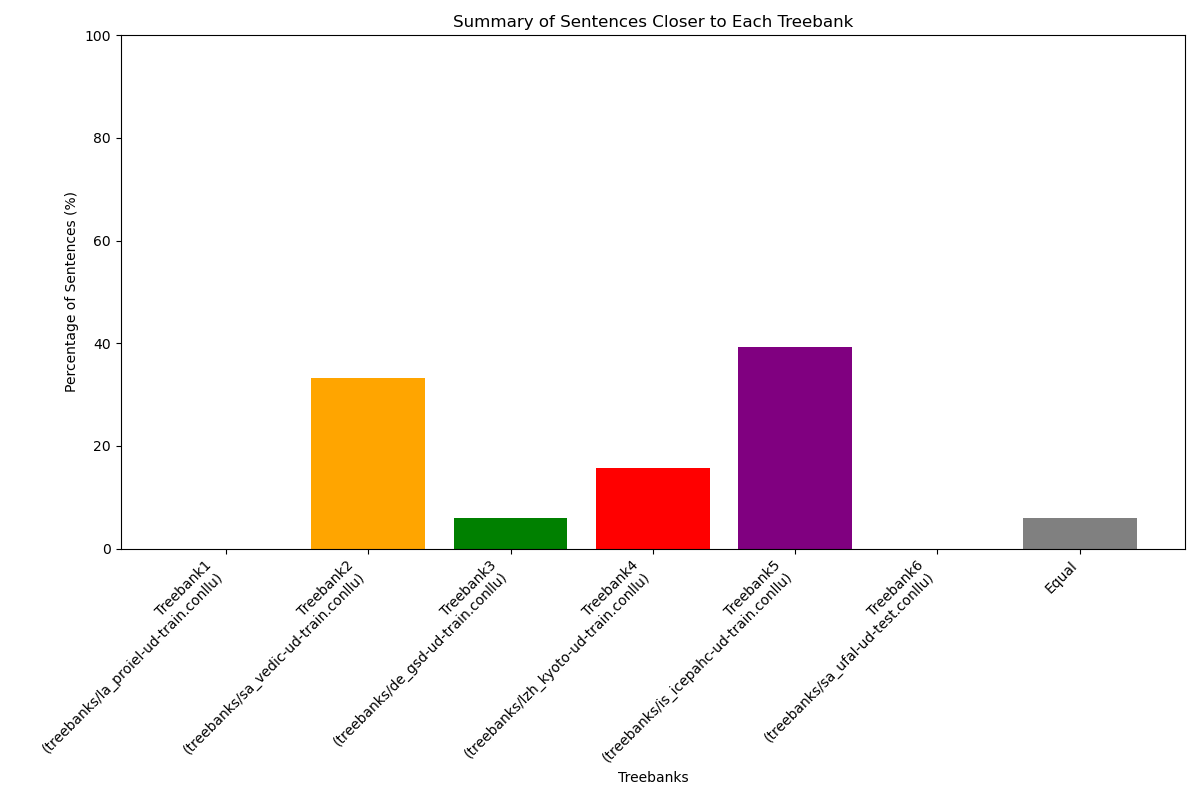
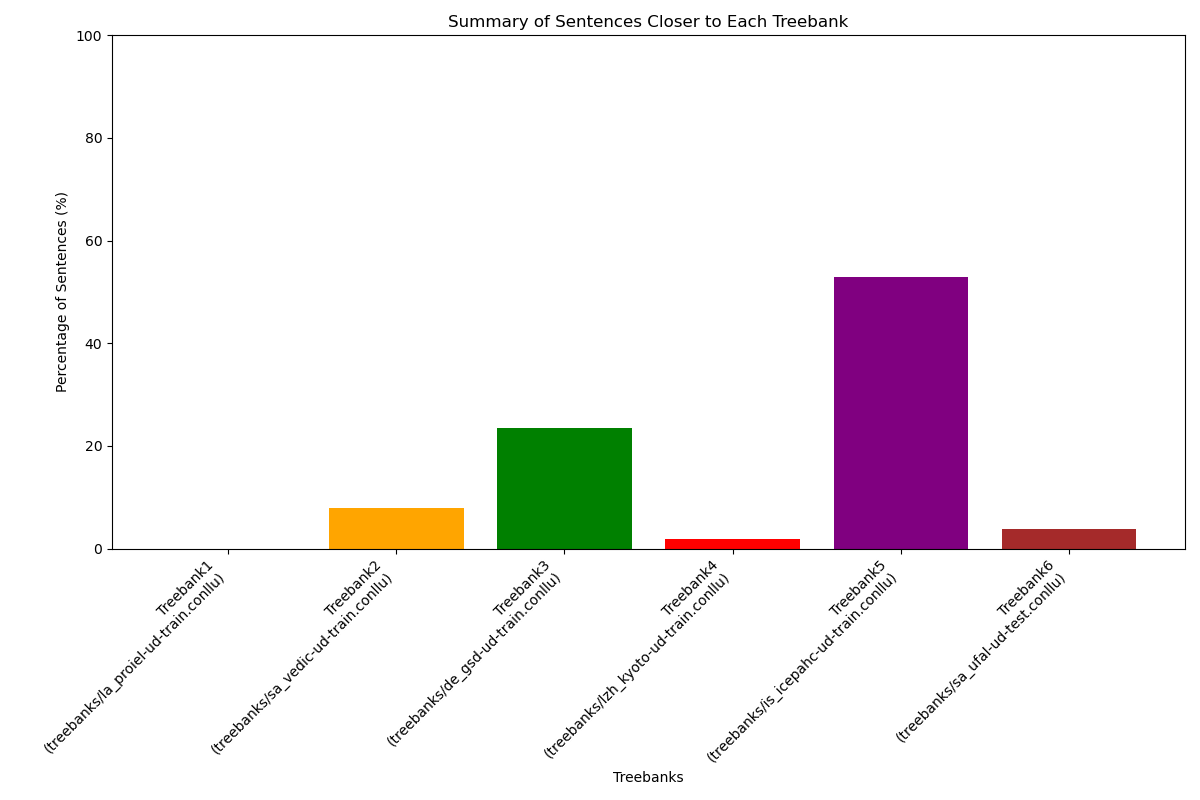
Fixed deviation calculation

diff --git a/compare_tree_edit_distance.py b/compare_tree_edit_distance.py
@@ -4,6 +4,7 @@ import argparse
 from collections import defaultdict
 from typing import List, Dict, Tuple, Set, Any, Optional
 import matplotlib.pyplot as plt
+import random
 
 
 class DependencyNode:
@@ -137,8 +138,14 @@ def tree_edit_distance(tree1: List[DependencyNode], tree2: List[DependencyNode])
     if max_size == 0:
         return 0.0
     
-    return total_distance / max_size
+    # Explicit normalization
+    normalized_distance = total_distance / max_size
+    
+    return normalized_distance
 
+
+def safe_average(distances):
+    return np.mean(distances) if distances else 1.0  # Using max normalized distance (1.0) as fallback
 
 def compute_average_distances(input_sentences: List[List[DependencyNode]], 
                              treebank1: List[List[DependencyNode]], 
@@ -153,31 +160,58 @@ def compute_average_distances(input_sentences: List[List[DependencyNode]],
     Returns a dictionary mapping sentence indices to tuples of (avg_distance_to_treebank1, avg_distance_to_treebank2, avg_distance_to_treebank3, avg_distance_to_treebank4, avg_distance_to_treebank5, avg_distance_to_treebank6)
     """
     results = {}
-    
+    max_samples = 1000  # Maximum number of samples to use for averaging
+
     for i, sentence in enumerate(input_sentences):
-        # Compute distances to treebank1
-        distances1 = [tree_edit_distance(sentence, ref_sentence) for ref_sentence in treebank1]
-        avg_distance1 = np.mean(distances1) if distances1 else float('inf')
+        sentence_length = len(sentence)
+        min_length = int(sentence_length * 0.8)
+        max_length = int(sentence_length * 1.2)
         
-        # Compute distances to treebank2
-        distances2 = [tree_edit_distance(sentence, ref_sentence) for ref_sentence in treebank2]
-        avg_distance2 = np.mean(distances2) if distances2 else float('inf')
+        # Filter and sample treebank sentences by length
+        filtered_treebank1 = [s for s in treebank1 if min_length <= len(s) <= max_length]
+        filtered_treebank2 = [s for s in treebank2 if min_length <= len(s) <= max_length]
+        filtered_treebank3 = [s for s in treebank3 if min_length <= len(s) <= max_length]
+        filtered_treebank4 = [s for s in treebank4 if min_length <= len(s) <= max_length]
+        filtered_treebank5 = [s for s in treebank5 if min_length <= len(s) <= max_length]
+        filtered_treebank6 = [s for s in treebank6 if min_length <= len(s) <= max_length]
+        # print length of filtered treebanks
+        print(f"Length of filtered treebank1: {len(filtered_treebank1)}")
+        print(f"Length of filtered treebank2: {len(filtered_treebank2)}")
+        print(f"Length of filtered treebank3: {len(filtered_treebank3)}")
+        print(f"Length of filtered treebank4: {len(filtered_treebank4)}")
+        print(f"Length of filtered treebank5: {len(filtered_treebank5)}")
+        print(f"Length of filtered treebank6: {len(filtered_treebank6)}")
+        # Sample from the filtered lists
+        sampled_treebank1 = random.sample(filtered_treebank1, min(max_samples, len(filtered_treebank1))) if filtered_treebank1 else []
+        sampled_treebank2 = random.sample(filtered_treebank2, min(max_samples, len(filtered_treebank2))) if filtered_treebank2 else []
+        sampled_treebank3 = random.sample(filtered_treebank3, min(max_samples, len(filtered_treebank3))) if filtered_treebank3 else []
+        sampled_treebank4 = random.sample(filtered_treebank4, min(max_samples, len(filtered_treebank4))) if filtered_treebank4 else []
+        sampled_treebank5 = random.sample(filtered_treebank5, min(max_samples, len(filtered_treebank5))) if filtered_treebank5 else []
+        sampled_treebank6 = random.sample(filtered_treebank6, min(max_samples, len(filtered_treebank6))) if filtered_treebank6 else []
         
-        # Compute distances to treebank3
-        distances3 = [tree_edit_distance(sentence, ref_sentence) for ref_sentence in treebank3]
-        avg_distance3 = np.mean(distances3) if distances3 else float('inf')
+        # Compute distances to sampled treebank1
+        distances1 = [tree_edit_distance(sentence, ref_sentence) for ref_sentence in sampled_treebank1]
+        avg_distance1 = safe_average(distances1)
         
-        # Compute distances to treebank4
-        distances4 = [tree_edit_distance(sentence, ref_sentence) for ref_sentence in treebank4]
-        avg_distance4 = np.mean(distances4) if distances4 else float('inf')
+        # Compute distances to sampled treebank2
+        distances2 = [tree_edit_distance(sentence, ref_sentence) for ref_sentence in sampled_treebank2]
+        avg_distance2 = safe_average(distances2)
         
-        # Compute distances to treebank5
-        distances5 = [tree_edit_distance(sentence, ref_sentence) for ref_sentence in treebank5]
-        avg_distance5 = np.mean(distances5) if distances5 else float('inf')
+        # Compute distances to sampled treebank3
+        distances3 = [tree_edit_distance(sentence, ref_sentence) for ref_sentence in sampled_treebank3]
+        avg_distance3 = safe_average(distances3)
         
-        # Compute distances to treebank6
-        distances6 = [tree_edit_distance(sentence, ref_sentence) for ref_sentence in treebank6]
-        avg_distance6 = np.mean(distances6) if distances6 else float('inf')
+        # Compute distances to sampled treebank4
+        distances4 = [tree_edit_distance(sentence, ref_sentence) for ref_sentence in sampled_treebank4]
+        avg_distance4 = safe_average(distances4)
+        
+        # Compute distances to sampled treebank5
+        distances5 = [tree_edit_distance(sentence, ref_sentence) for ref_sentence in sampled_treebank5]
+        avg_distance5 = safe_average(distances5)
+        
+        # Compute distances to sampled treebank6
+        distances6 = [tree_edit_distance(sentence, ref_sentence) for ref_sentence in sampled_treebank6]
+        avg_distance6 = safe_average(distances6)
         
         results[i] = (avg_distance1, avg_distance2, avg_distance3, avg_distance4, avg_distance5, avg_distance6)
         
@@ -192,6 +226,7 @@ def main():
     
     # Hardcode the file paths
     input_file = 'data/yd-parsed.txt'
+    #input_file = 'data/vedic.txt'
     treebank1_file = 'treebanks/la_proiel-ud-train.conllu'
     treebank2_file = 'treebanks/sa_vedic-ud-train.conllu'
     treebank3_file = 'treebanks/de_gsd-ud-train.conllu'
@@ -243,60 +278,65 @@ def main():
     print(f"Parsed {len(treebank5)} sentences from treebank 5 after pruning")
     print(f"Parsed {len(treebank6)} sentences from treebank 6 after pruning")
     
-    # Compute the average distances
+    # Compute the average distances and total distances
     results = compute_average_distances(input_sentences, treebank1, treebank2, treebank3, treebank4, treebank5, treebank6)
     
+    # Initialize total distances
+    total_distances = [0.0] * 6
+    
+    # Initialize counters for sentences closer to each treebank
+    tb1_closer = tb2_closer = tb3_closer = tb4_closer = tb5_closer = tb6_closer = equal = 0
+
     # Write the results to the output file
     with open(args.output, 'w', encoding='utf-8') as f:
-        f.write("Sentence_ID\tAvg_Distance_Treebank1\tAvg_Distance_Treebank2\tAvg_Distance_Treebank3\tAvg_Distance_Treebank4\tAvg_Distance_Treebank5\tAvg_Distance_Treebank6\tCloser_To\tTreebank_File\n")
+        f.write("Sentence_ID\tAvg_Distance_Treebank1\tAvg_Distance_Treebank2\tAvg_Distance_Treebank3\tAvg_Distance_Treebank4\tAvg_Distance_Treebank5\tAvg_Distance_Treebank6\n")
         
         for sentence_id, (dist1, dist2, dist3, dist4, dist5, dist6) in sorted(results.items()):
-            if dist1 < dist2 and dist1 < dist3 and dist1 < dist4 and dist1 < dist5 and dist1 < dist6:
-                closer_to = "Treebank1"
-                treebank_file = treebank1_file
-            elif dist2 < dist1 and dist2 < dist3 and dist2 < dist4 and dist2 < dist5 and dist2 < dist6:
-                closer_to = "Treebank2"
-                treebank_file = treebank2_file
-            elif dist3 < dist1 and dist3 < dist2 and dist3 < dist4 and dist3 < dist5 and dist3 < dist6:
-                closer_to = "Treebank3"
-                treebank_file = treebank3_file
-            elif dist4 < dist1 and dist4 < dist2 and dist4 < dist3 and dist4 < dist5 and dist4 < dist6:
-                closer_to = "Treebank4"
-                treebank_file = treebank4_file
-            elif dist5 < dist1 and dist5 < dist2 and dist5 < dist3 and dist5 < dist4 and dist5 < dist6:
-                closer_to = "Treebank5"
-                treebank_file = treebank5_file
-            elif dist6 < dist1 and dist6 < dist2 and dist6 < dist3 and dist6 < dist4 and dist6 < dist5:
-                closer_to = "Treebank6"
-                treebank_file = treebank6_file
+            total_distances[0] += dist1
+            total_distances[1] += dist2
+            total_distances[2] += dist3
+            total_distances[3] += dist4
+            total_distances[4] += dist5
+            total_distances[5] += dist6
+            
+            # Determine which treebank the sentence is closest to
+            distances = [dist1, dist2, dist3, dist4, dist5, dist6]
+            min_distance = min(distances)
+            if distances.count(min_distance) > 1:
+                equal += 1
             else:
-                closer_to = "Equal"
-                treebank_file = "Multiple"
-                
-            f.write(f"{sentence_id+1}\t{dist1:.4f}\t{dist2:.4f}\t{dist3:.4f}\t{dist4:.4f}\t{dist5:.4f}\t{dist6:.4f}\t{closer_to}\t{treebank_file}\n")
+                closest_index = distances.index(min_distance)
+                if closest_index == 0:
+                    tb1_closer += 1
+                elif closest_index == 1:
+                    tb2_closer += 1
+                elif closest_index == 2:
+                    tb3_closer += 1
+                elif closest_index == 3:
+                    tb4_closer += 1
+                elif closest_index == 4:
+                    tb5_closer += 1
+                elif closest_index == 5:
+                    tb6_closer += 1
+            
+            f.write(f"{sentence_id+1}\t{dist1:.4f}\t{dist2:.4f}\t{dist3:.4f}\t{dist4:.4f}\t{dist5:.4f}\t{dist6:.4f}\n")
     
     print(f"Results written to {args.output}")
     
-    # Print summary statistics
-    tb1_closer = sum(1 for _, (d1, d2, d3, d4, d5, d6) in results.items() if d1 < d2 and d1 < d3 and d1 < d4 and d1 < d5 and d1 < d6)
-    tb2_closer = sum(1 for _, (d1, d2, d3, d4, d5, d6) in results.items() if d2 < d1 and d2 < d3 and d2 < d4 and d2 < d5 and d2 < d6)
-    tb3_closer = sum(1 for _, (d1, d2, d3, d4, d5, d6) in results.items() if d3 < d1 and d3 < d2 and d3 < d4 and d3 < d5 and d3 < d6)
-    tb4_closer = sum(1 for _, (d1, d2, d3, d4, d5, d6) in results.items() if d4 < d1 and d4 < d2 and d4 < d3 and d4 < d5 and d4 < d6)
-    tb5_closer = sum(1 for _, (d1, d2, d3, d4, d5, d6) in results.items() if d5 < d1 and d5 < d2 and d5 < d3 and d5 < d4 and d5 < d6)
-    tb6_closer = sum(1 for _, (d1, d2, d3, d4, d5, d6) in results.items() if d6 < d1 and d6 < d2 and d6 < d3 and d6 < d4 and d6 < d5)
-    equal = sum(1 for _, (d1, d2, d3, d4, d5, d6) in results.items() if (d1 == d2 and d1 < d3 and d1 < d4 and d1 < d5 and d1 < d6) or (d1 == d3 and d1 < d2 and d1 < d4 and d1 < d5 and d1 < d6) or (d1 == d4 and d1 < d2 and d1 < d3 and d1 < d5 and d1 < d6) or (d1 == d5 and d1 < d2 and d1 < d3 and d1 < d4 and d1 < d6) or (d1 == d6 and d1 < d2 and d1 < d3 and d1 < d4 and d1 < d5) or (d2 == d3 and d2 < d1 and d2 < d4 and d2 < d5 and d2 < d6) or (d2 == d4 and d2 < d1 and d2 < d3 and d2 < d5 and d2 < d6) or (d2 == d5 and d2 < d1 and d2 < d3 and d2 < d4 and d2 < d6) or (d2 == d6 and d2 < d1 and d2 < d3 and d2 < d4 and d2 < d5) or (d3 == d4 and d3 < d1 and d3 < d2 and d3 < d5 and d3 < d6) or (d3 == d5 and d3 < d1 and d3 < d2 and d3 < d4 and d3 < d6) or (d3 == d6 and d3 < d1 and d3 < d2 and d3 < d4 and d3 < d5) or (d4 == d5 and d4 < d1 and d4 < d2 and d4 < d3 and d4 < d6) or (d4 == d6 and d4 < d1 and d4 < d2 and d4 < d3 and d4 < d5) or (d5 == d6 and d5 < d1 and d5 < d2 and d5 < d3 and d5 < d4) or (d1 == d2 == d3 and d1 < d4 and d1 < d5 and d1 < d6) or (d1 == d2 == d4 and d1 < d3 and d1 < d5 and d1 < d6) or (d1 == d2 == d5 and d1 < d3 and d1 < d4 and d1 < d6) or (d1 == d2 == d6 and d1 < d3 and d1 < d4 and d1 < d5) or (d1 == d3 == d4 and d1 < d2 and d1 < d5 and d1 < d6) or (d1 == d3 == d5 and d1 < d2 and d1 < d4 and d1 < d6) or (d1 == d3 == d6 and d1 < d2 and d1 < d4 and d1 < d5) or (d1 == d4 == d5 and d1 < d2 and d1 < d3 and d1 < d6) or (d1 == d4 == d6 and d1 < d2 and d1 < d3 and d1 < d5) or (d1 == d5 == d6 and d1 < d2 and d1 < d3 and d1 < d4) or (d2 == d3 == d4 and d2 < d1 and d2 < d5 and d2 < d6) or (d2 == d3 == d5 and d2 < d1 and d2 < d4 and d2 < d6) or (d2 == d3 == d6 and d2 < d1 and d2 < d4 and d2 < d5) or (d2 == d4 == d5 and d2 < d1 and d2 < d3 and d2 < d6) or (d2 == d4 == d6 and d2 < d1 and d2 < d3 and d2 < d5) or (d2 == d5 == d6 and d2 < d1 and d2 < d3 and d2 < d4) or (d3 == d4 == d5 and d3 < d1 and d3 < d2 and d3 < d6) or (d3 == d4 == d6 and d3 < d1 and d3 < d2 and d3 < d5) or (d3 == d5 == d6 and d3 < d1 and d3 < d2 and d3 < d4) or (d4 == d5 == d6 and d4 < d1 and d4 < d2 and d4 < d3) or (d1 == d2 == d3 == d4 and d1 < d5 and d1 < d6) or (d1 == d2 == d3 == d5 and d1 < d4 and d1 < d6) or (d1 == d2 == d3 == d6 and d1 < d4 and d1 < d5) or (d1 == d2 == d4 == d5 and d1 < d3 and d1 < d6) or (d1 == d2 == d4 == d6 and d1 < d3 and d1 < d5) or (d1 == d2 == d5 == d6 and d1 < d3 and d1 < d4) or (d1 == d3 == d4 == d5 and d1 < d2 and d1 < d6) or (d1 == d3 == d4 == d6 and d1 < d2 and d1 < d5) or (d1 == d3 == d5 == d6 and d1 < d2 and d1 < d4) or (d1 == d4 == d5 == d6 and d1 < d2 and d1 < d3) or (d2 == d3 == d4 == d5 and d2 < d1 and d2 < d6) or (d2 == d3 == d4 == d6 and d2 < d1 and d2 < d5) or (d2 == d3 == d5 == d6 and d2 < d1 and d2 < d4) or (d2 == d4 == d5 == d6 and d2 < d1 and d2 < d3) or (d3 == d4 == d5 == d6 and d3 < d1 and d3 < d2) or (d1 == d2 == d3 == d4 == d5 and d1 < d6) or (d1 == d2 == d3 == d4 == d6 and d1 < d5) or (d1 == d2 == d3 == d5 == d6 and d1 < d4) or (d1 == d2 == d4 == d5 == d6 and d1 < d3) or (d1 == d3 == d4 == d5 == d6 and d1 < d2) or (d2 == d3 == d4 == d5 == d6 and d2 < d1) or (d1 == d2 == d3 == d4 == d5 == d6))
+    # Calculate mean and standard deviation of total distances
+    mean_distance = np.mean(total_distances)
+    std_distance = np.std(total_distances)
     
-    print(f"Summary:")
-    print(f"- Sentences closer to Treebank1 ({treebank1_file}): {tb1_closer} ({tb1_closer/len(results)*100:.1f}%)")
-    print(f"- Sentences closer to Treebank2 ({treebank2_file}): {tb2_closer} ({tb2_closer/len(results)*100:.1f}%)")
-    print(f"- Sentences closer to Treebank3 ({treebank3_file}): {tb3_closer} ({tb3_closer/len(results)*100:.1f}%)")
-    print(f"- Sentences closer to Treebank4 ({treebank4_file}): {tb4_closer} ({tb4_closer/len(results)*100:.1f}%)")
-    print(f"- Sentences closer to Treebank5 ({treebank5_file}): {tb5_closer} ({tb5_closer/len(results)*100:.1f}%)")
-    print(f"- Sentences closer to Treebank6 ({treebank6_file}): {tb6_closer} ({tb6_closer/len(results)*100:.1f}%)")
-    print(f"- Sentences equally distant: {equal} ({equal/len(results)*100:.1f}%)")
+    # Print normalized distances as deviations from the mean
+    print("Normalized Tree Edit Distances (Deviations from Mean):")
+    print(f"- Deviation for Treebank1: {(total_distances[0] - mean_distance) / std_distance:.4f}")
+    print(f"- Deviation for Treebank2: {(total_distances[1] - mean_distance) / std_distance:.4f}")
+    print(f"- Deviation for Treebank3: {(total_distances[2] - mean_distance) / std_distance:.4f}")
+    print(f"- Deviation for Treebank4: {(total_distances[3] - mean_distance) / std_distance:.4f}")
+    print(f"- Deviation for Treebank5: {(total_distances[4] - mean_distance) / std_distance:.4f}")
+    print(f"- Deviation for Treebank6: {(total_distances[5] - mean_distance) / std_distance:.4f}")
     
-    def plot_summary(tb1_closer, tb2_closer, tb3_closer, tb4_closer, tb5_closer, tb6_closer, equal, total,
-                     tb1_file, tb2_file, tb3_file, tb4_file, tb5_file, tb6_file):
+    def plot_summary(deviations, tb1_file, tb2_file, tb3_file, tb4_file, tb5_file, tb6_file):
         labels = [
             f'Treebank1\n({tb1_file})',
             f'Treebank2\n({tb2_file})',
@@ -304,24 +344,29 @@ def main():
             f'Treebank4\n({tb4_file})',
             f'Treebank5\n({tb5_file})',
             f'Treebank6\n({tb6_file})',
-            'Equal'
         ]
-        counts = [tb1_closer, tb2_closer, tb3_closer, tb4_closer, tb5_closer, tb6_closer, equal]
-        percentages = [count / total * 100 for count in counts]
 
         plt.figure(figsize=(12, 8))
-        plt.bar(labels, percentages, color=['blue', 'orange', 'green', 'red', 'purple', 'brown', 'gray'])
+        plt.bar(labels, deviations, color=['blue', 'orange', 'green', 'red', 'purple', 'brown'])
         plt.xlabel('Treebanks')
-        plt.ylabel('Percentage of Sentences (%)')
-        plt.title('Summary of Sentences Closer to Each Treebank')
-        plt.ylim(0, 100)
+        plt.ylabel('Deviation from Mean')
+        plt.title('Deviation of Total Distances from Mean for Each Treebank')
         plt.xticks(rotation=45, ha='right')
         plt.tight_layout()
-        plt.savefig('result.png')
+        plt.savefig('deviation_result.png')
     
-    # Call the plot_summary function with the computed values and filenames
-    plot_summary(tb1_closer, tb2_closer, tb3_closer, tb4_closer, tb5_closer, tb6_closer, equal, len(results),
-                 treebank1_file, treebank2_file, treebank3_file, treebank4_file, treebank5_file, treebank6_file)
+    # Calculate deviations
+    deviations = [
+        (total_distances[0] - mean_distance) / std_distance,
+        (total_distances[1] - mean_distance) / std_distance,
+        (total_distances[2] - mean_distance) / std_distance,
+        (total_distances[3] - mean_distance) / std_distance,
+        (total_distances[4] - mean_distance) / std_distance,
+        (total_distances[5] - mean_distance) / std_distance
+    ]
+
+    # Call the plot_summary function with the computed deviations and filenames
+    plot_summary(deviations, treebank1_file, treebank2_file, treebank3_file, treebank4_file, treebank5_file, treebank6_file)
     
 if __name__ == "__main__":
     main()
